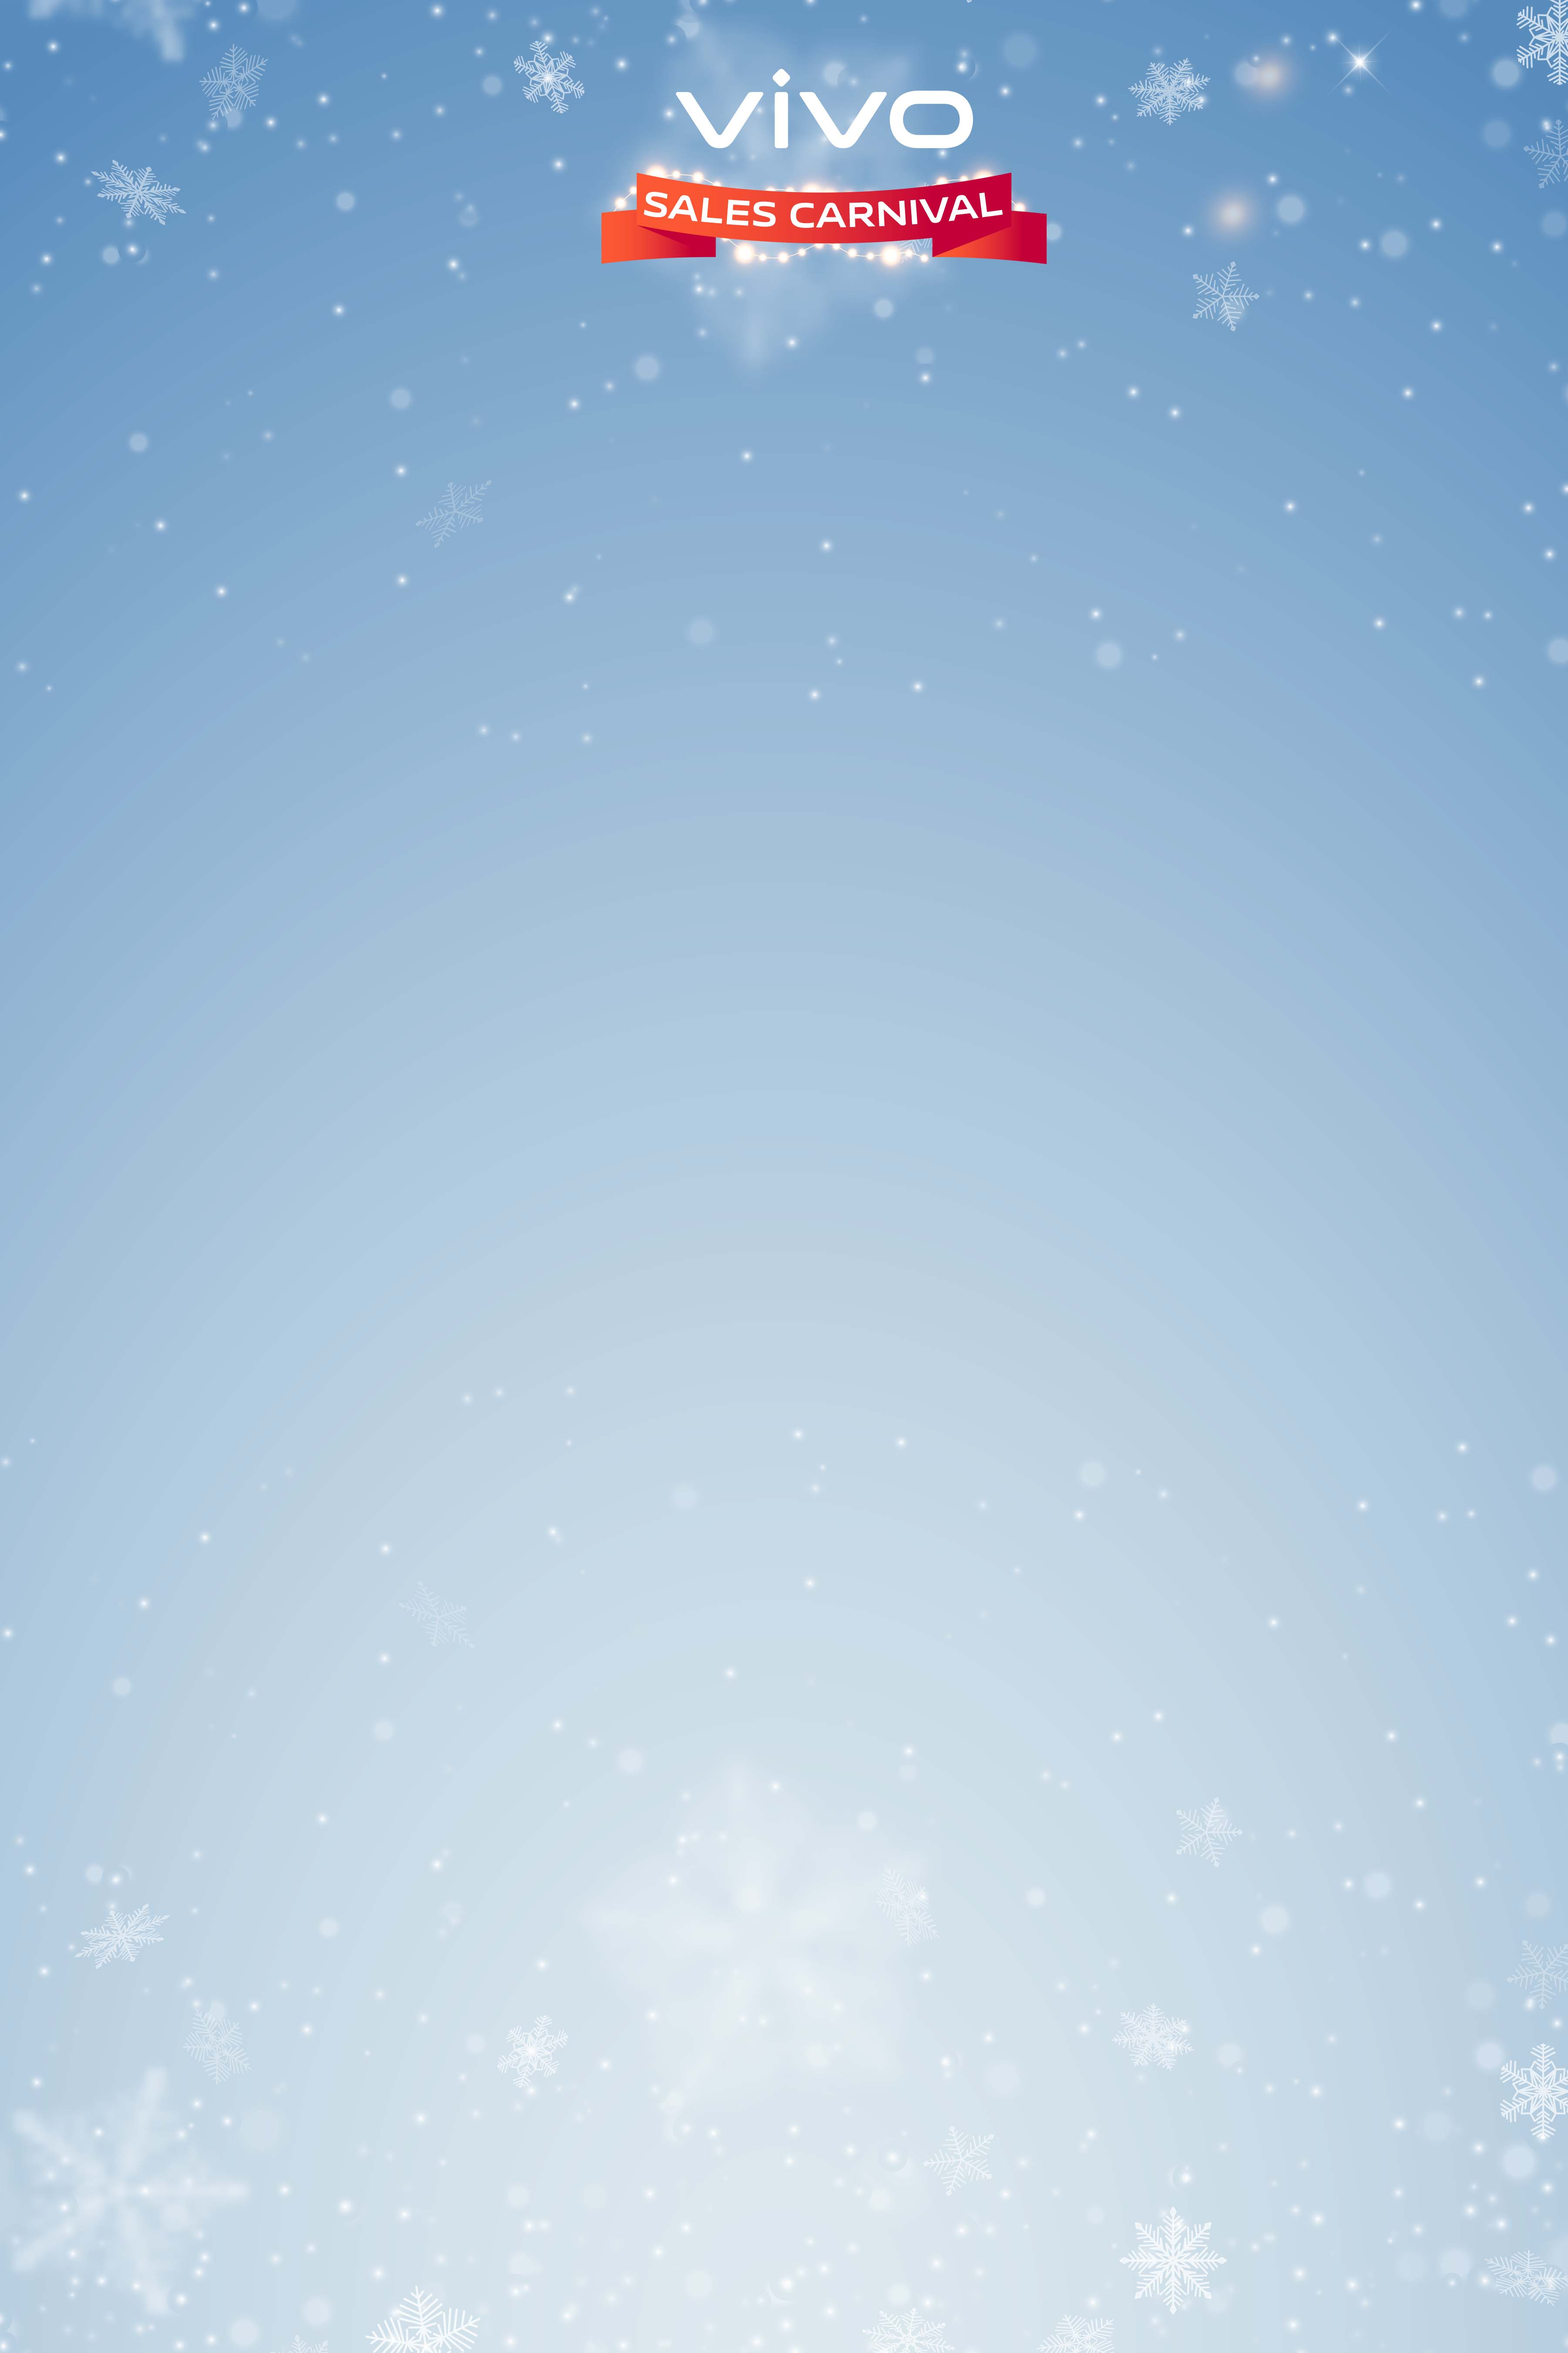
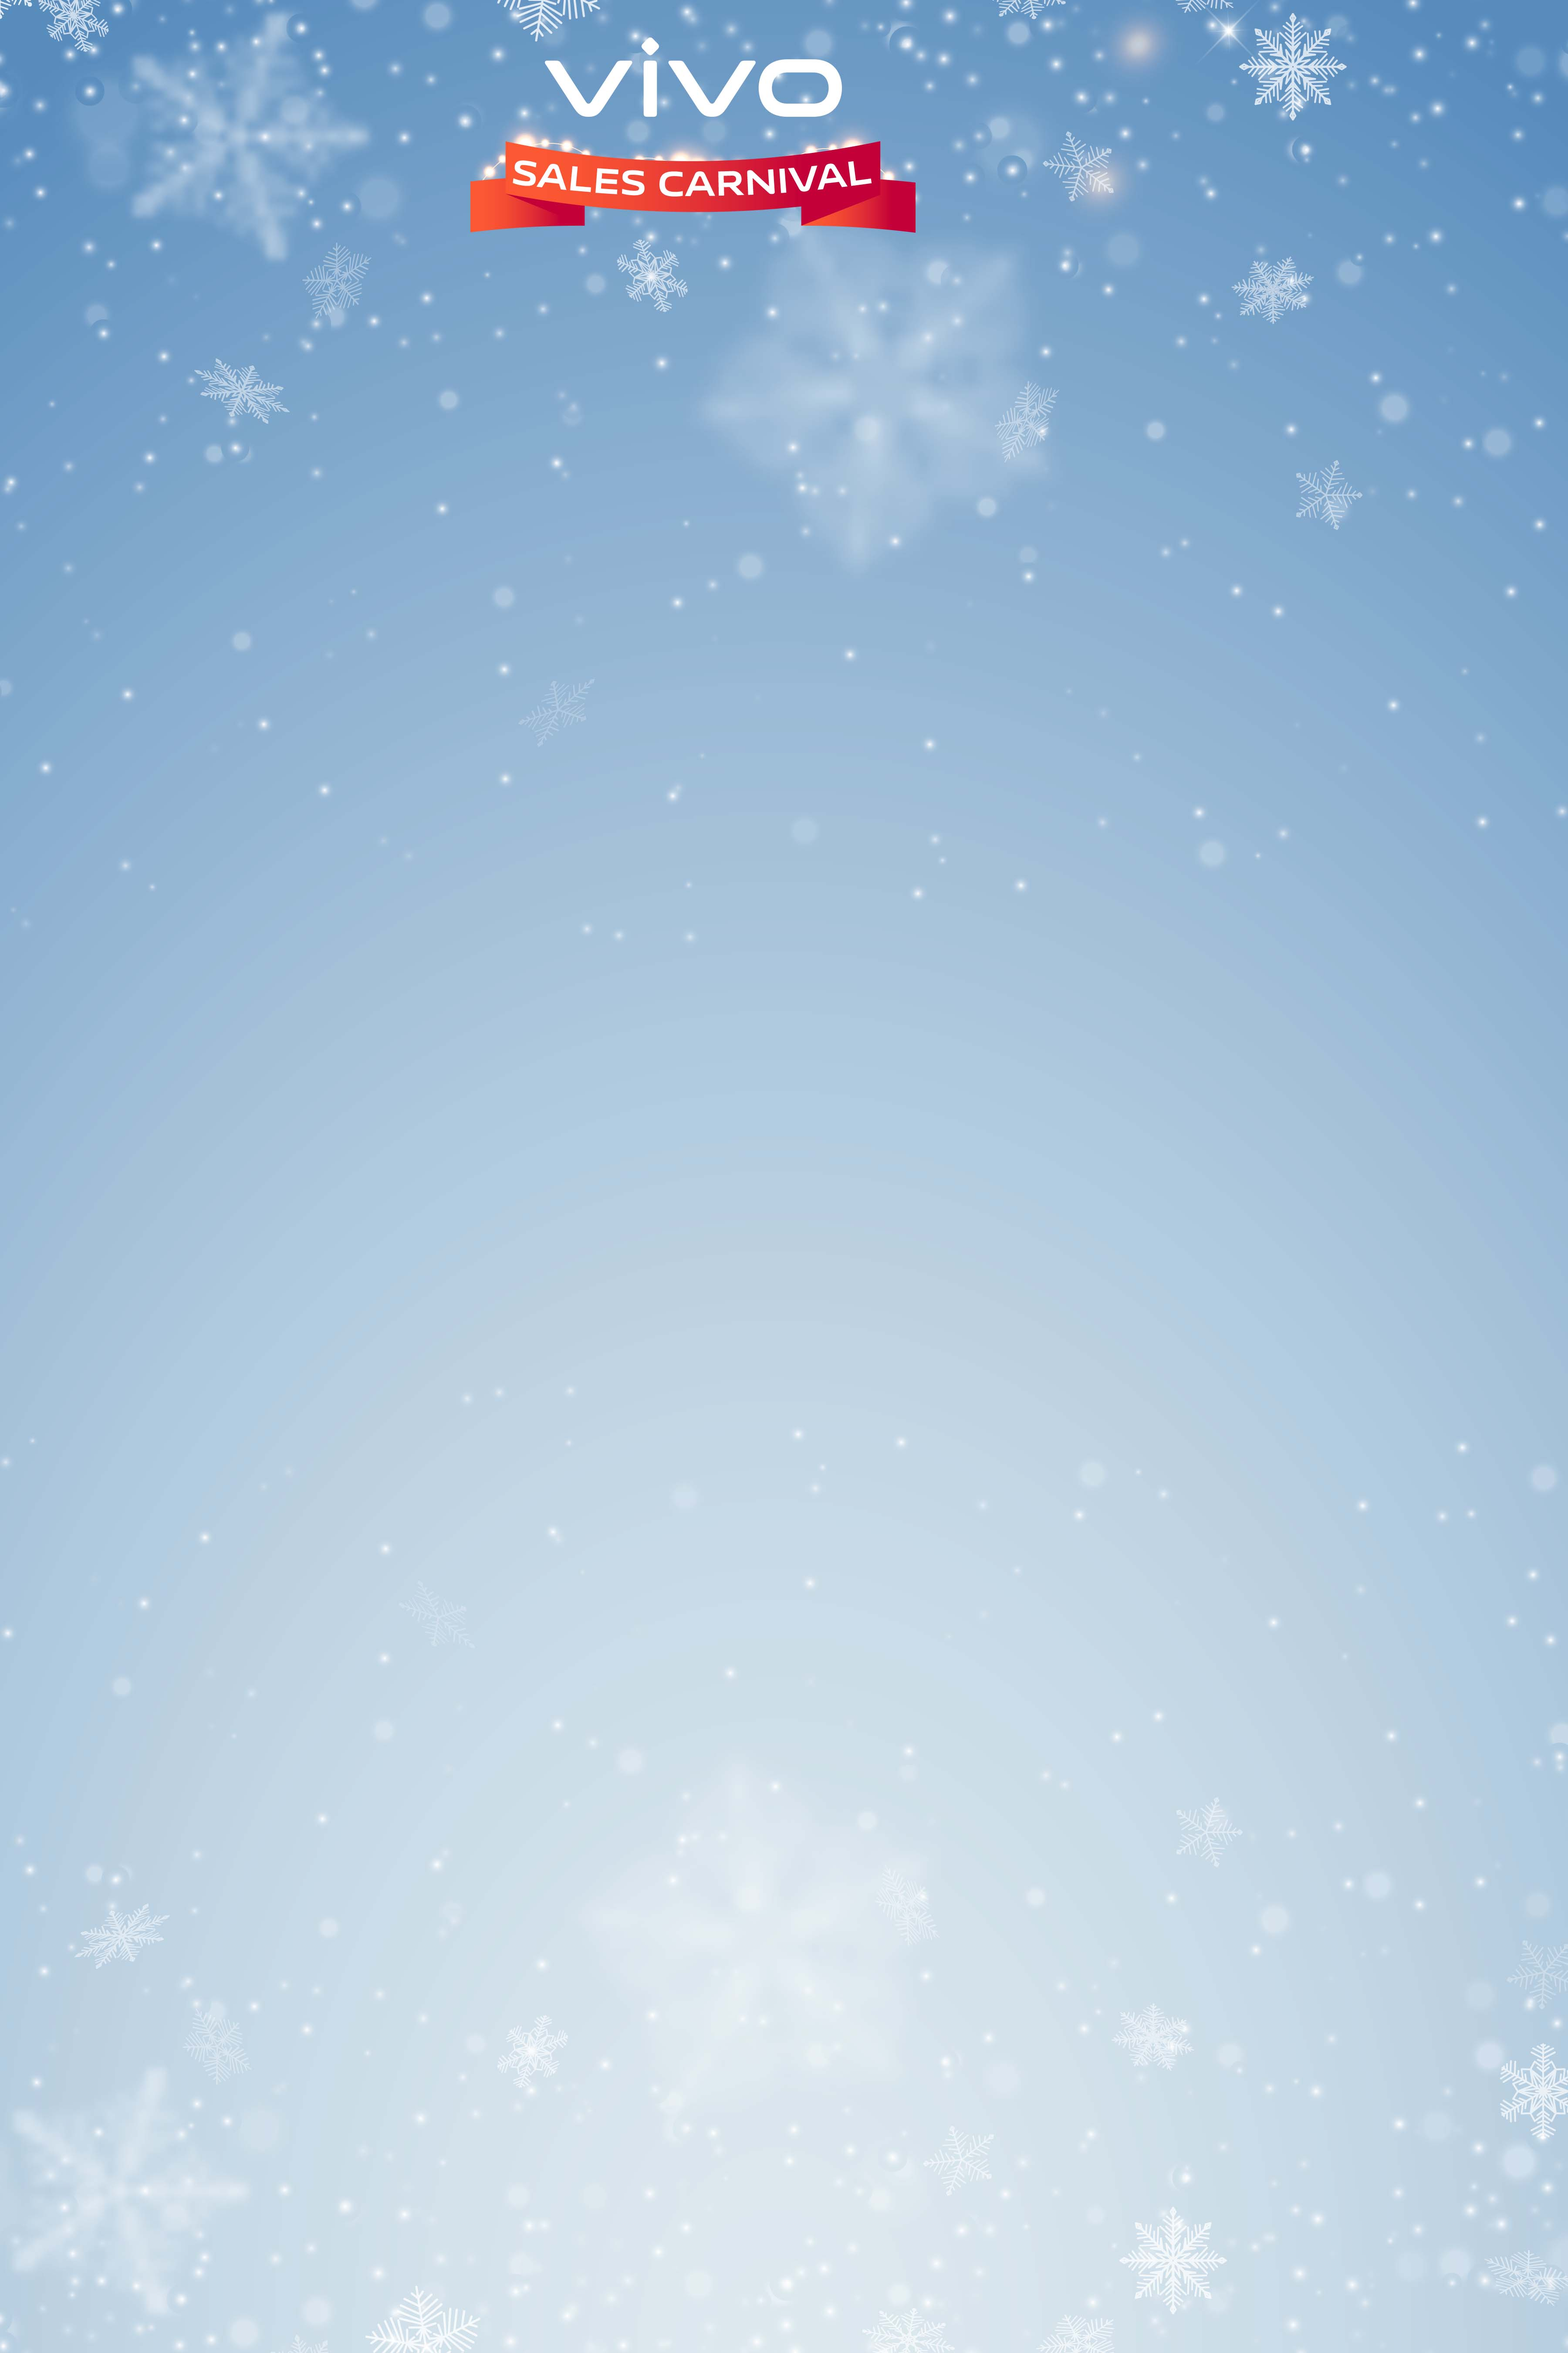
sac

diff --git a/staticfiles/css/style.css b/staticfiles/css/style.css
@@ -34,9 +34,9 @@ html {
 }
 
 .bgimg-1 {
-  background-image: url('../background.jpg');
+  background-image: url('../backg.jpg');
   max-width: 100%;
-  height: 122%;
+  height: 112%;
 }
 .form-control:active,.form-control:focus{
   box-shadow: none !important;
@@ -44,14 +44,14 @@ html {
   border-color: green;
 }
 .mt-5rem{
-  margin-top: 5rem !important;
+  margin-top: 4.5rem !important;
 }
 .bgimg-11 {
   position: relative;
   background-position: center;
   background-repeat: no-repeat;
   background-size: cover;
-  background-image: url('../background.jpg');
+  background-image: url('../bg2.jpg');
   max-width: 100%;
   height: 100%;
 }
